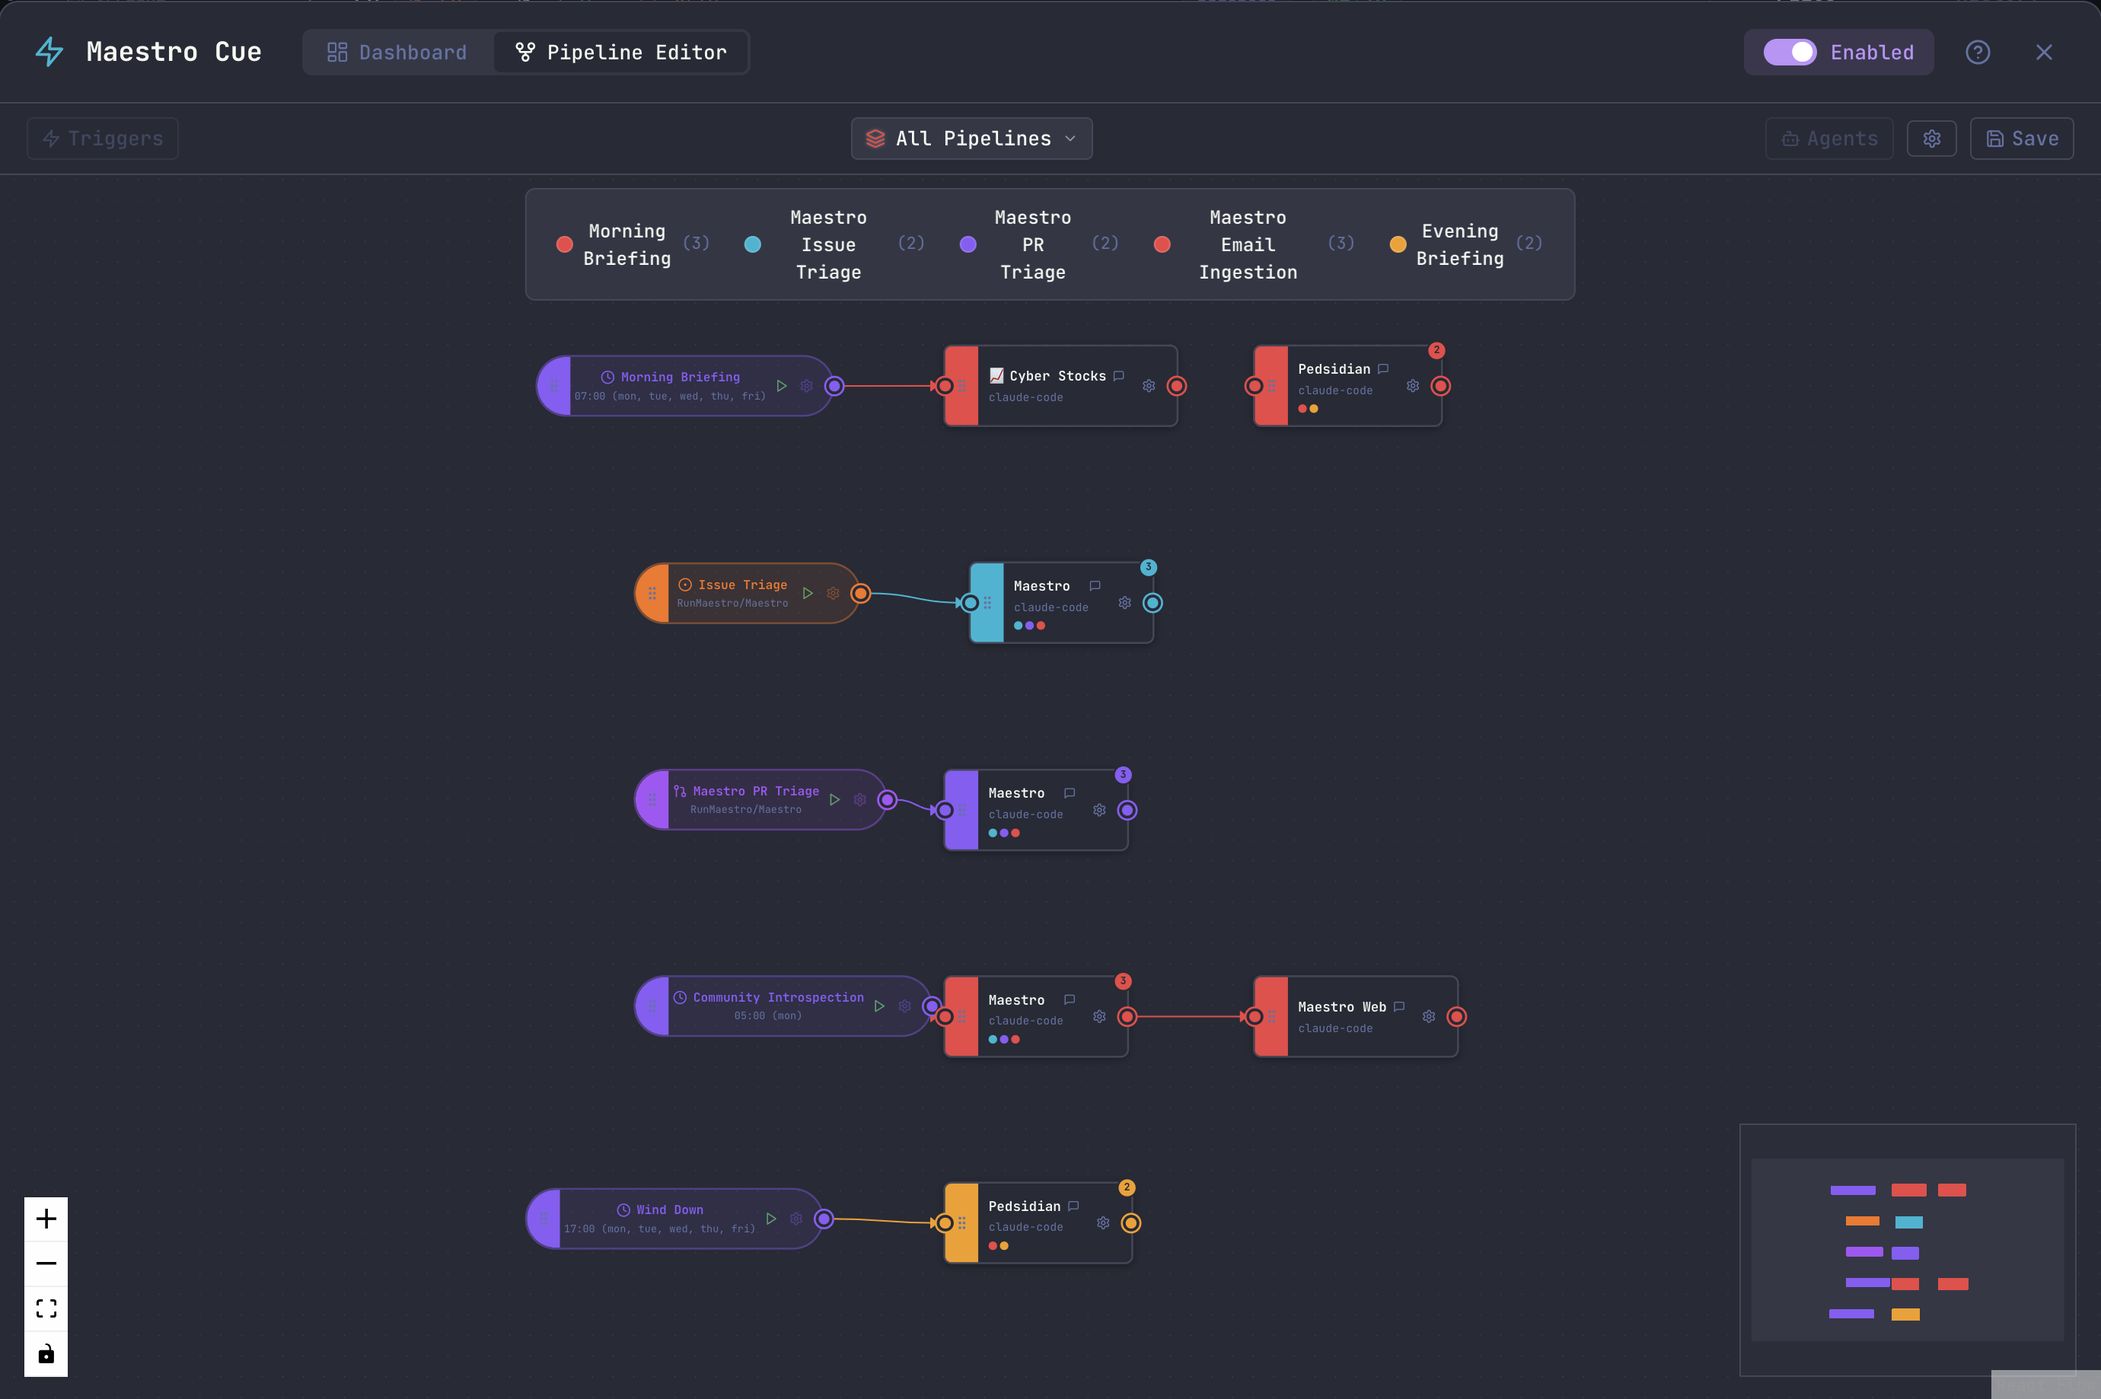
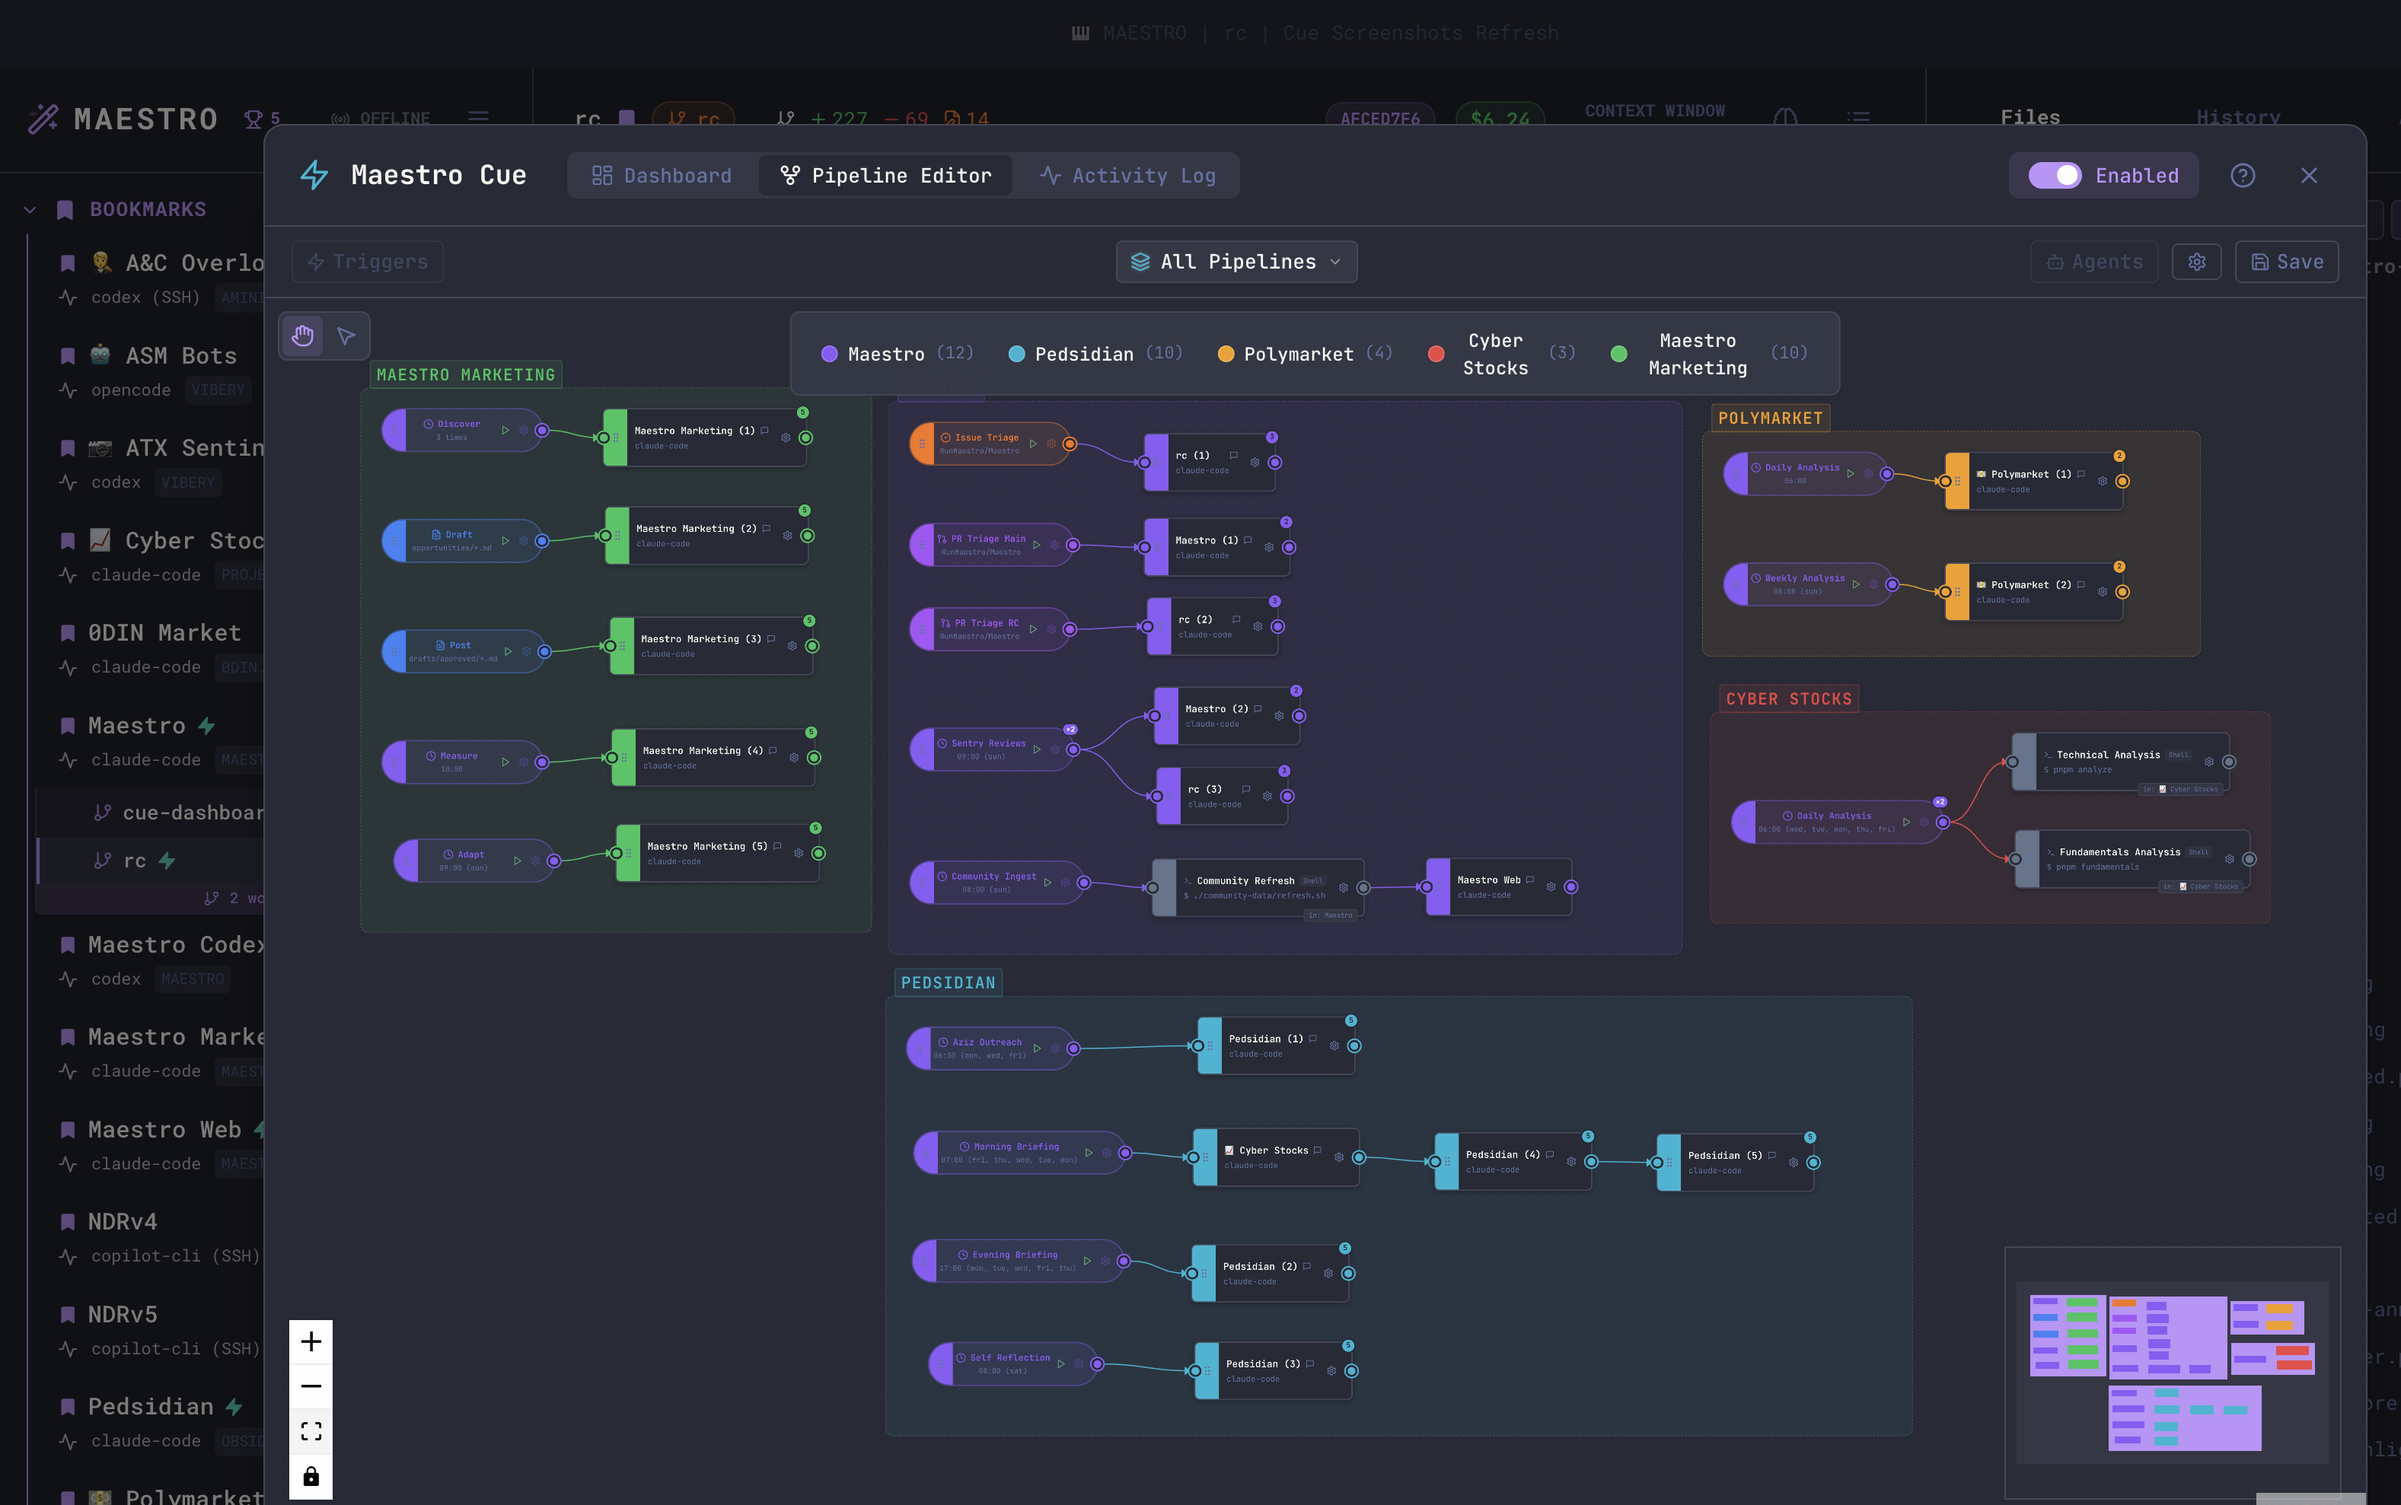
docs(cue): refresh Maestro Cue screenshots and restructure modal sections
Replace the four legacy modal screenshots with fresh full-viewport captures
that match the current three-tab layout, and add four new shots for surfaces
that previously had no visual: the expanded Activity Log entry, the YAML
editor's AI Assist panel, the in-app Help guide, and a dedicated
all-pipelines view distinct from the drilled-in detail.

The accompanying restructure in maestro-cue.md promotes Dashboard, Pipeline
Editor, Activity Log, YAML Editor, and Help to top-level H2 sections — the
prior nesting under "The Cue Modal" pre-dated Activity Log being its own
tab and described "two tabs" instead of three.

diff --git a/docs/maestro-cue.md b/docs/maestro-cue.md
@@ -48,7 +48,7 @@ That's it. Whenever a `.ts` file in `src/` changes, Cue sends that prompt to the
 
 ## The Cue Modal
 
-Open the Cue dashboard to monitor and manage all automation activity.
+Open the Cue modal to monitor and manage all automation activity.
 
 **Keyboard shortcut:**
 
@@ -59,13 +59,13 @@ Open the Cue dashboard to monitor and manage all automation activity.
 
 - Press `Cmd+K` / `Ctrl+K` and search for "Maestro Cue"
 
-The modal has two tabs: **Dashboard** and **Pipeline Editor**. An **Enabled** toggle in the header lets you start and stop the engine globally.
+The modal has three tabs — **Dashboard**, **Pipeline Editor**, and **Activity Log** — plus a **Help** button and an **Enabled** master toggle in the header that starts and stops the engine globally.
 
-### Sessions Table
+## Dashboard
 
-The Dashboard tab shows all agents with Cue configurations:
+The Dashboard tab summarizes engine state at the top (Pipelines, Total Executions, Active Runs, Agents) and lists every agent that has a Cue configuration:
 
-![Cue Sessions](./screenshots/cue-sessions.png)
+![Cue Dashboard](./screenshots/cue-dashboard.png)
 
 | Column             | Description                                                  |
 | ------------------ | ------------------------------------------------------------ |
@@ -79,44 +79,15 @@ The Dashboard tab shows all agents with Cue configurations:
 
 Each row has three action buttons:
 
-- **Run Now** — Manually trigger a subscription on demand
-- **Edit YAML** — Open the inline YAML editor for that agent
-- **View in Pipeline** — Jump to the Pipeline Editor filtered to that agent
+- **Run Now** — Manually trigger a subscription on demand, bypassing its normal event conditions. Useful for testing new subscriptions or re-running a failed automation without waiting for the next event.
+- **Edit YAML** — Open the inline YAML editor for that agent.
+- **View in Pipeline** — Jump to the Pipeline Editor filtered to that agent.
 
-### Run Now
-
-Each subscription row in the Sessions Table has a **Run Now** button that manually triggers it, bypassing its normal event conditions. This is useful for testing new subscriptions or re-running a failed automation without waiting for the next event.
-
-### Activity Log
-
-A chronological record of completed and failed runs. Click any entry to expand full details including the event payload, run ID, and exit code.
-
-![Cue Activity Log](./screenshots/cue-activity-log.png)
-
-Each entry shows:
-
-- Subscription name and trigger type (e.g. `[github.pull_request]`)
-- Status (completed, failed, timeout, stopped)
-- Duration
-- Timestamp
-
-Expand an entry to see the full event data — for GitHub triggers this includes the PR/issue number, title, author, URL, and body.
-
-### YAML Editor
-
-Click **Edit YAML** on any session row to open the inline editor. The left side offers **pattern templates** (Startup, Heartbeat, Scheduled, Reactive, Sequential Chain, PR Review, Issue Triage, Task Queue, and more) — click one to insert a pre-configured subscription block. An **AI Assist** panel lets you describe what you want in plain English and have the agent edit the config for you.
-
-![Cue YAML Editor](./screenshots/cue-yaml-editor.png)
-
-The right side shows your YAML with real-time validation — a green **Valid YAML** indicator appears at the bottom when the config parses correctly. Click **Save** to write the file; the engine hot-reloads automatically.
-
-### Help
-
-Built-in reference guide accessible from the modal header. Covers configuration syntax, event types, and template variables.
+Below the sessions table, the **Active Runs** section lists subscriptions that are currently executing, with a **Stop** button for each.
 
 ## Pipeline Editor
 
-The **Pipeline Editor** tab visualizes your Cue subscriptions as a node graph — triggers on the left, agents on the right, with edges showing how events flow through your automation.
+The Pipeline Editor tab visualizes your Cue subscriptions as a node graph — triggers on the left, agents on the right, with edges showing how events flow through your automation.
 
 ![All Pipelines](./screenshots/cue-pipelines.png)
 
@@ -126,13 +97,52 @@ A pipeline can contain **multiple trigger lines** — for example, a daily scan 
 
 ### Inspecting a Pipeline
 
-Click any pipeline name in the top bar or select a node to drill into a single pipeline. Side drawers open for **Triggers** (left) and **Agents** (right), showing full configuration details. Selecting an agent node reveals its prompt text inline.
+Pick a pipeline from the **All Pipelines** dropdown in the top bar, or click any node, to drill into a single pipeline. The **Triggers** drawer (left) and **Agents** drawer (right) toggle from the toolbar and show full configuration details. Selecting a node reveals its details inline at the bottom — including the prompt text for an agent node.
 
 ![Pipeline Detail](./screenshots/cue-pipeline.png)
 
-The Triggers drawer lists all event types with their configurations (filter patterns, poll intervals, etc.). The Agents drawer shows all available agents with status indicators, and clicking one displays the prompt that will be sent when the trigger fires.
+The Triggers drawer lists all event types with their configurations (filter patterns, poll intervals, etc.). The Agents drawer shows all available agents grouped by project with status indicators.
 
-Use the **Switch to Agent** link at the bottom to jump directly to that agent's workspace.
+Use the **Switch to Agent** link to jump directly to that agent's workspace.
+
+## Activity Log
+
+The Activity Log tab is a chronological record of every completed, failed, timed-out, or stopped run. The header offers a search box and an **Expand all / Collapse all** toggle.
+
+![Cue Activity Log](./screenshots/cue-activity-log.png)
+
+Each entry shows:
+
+- Timestamp (just the time for today's runs, full date for older)
+- Pipeline color dot and subscription name
+- Trigger type (e.g. `(file.changed)`, `(github.pull_request)`)
+- Status (completed in N seconds, failed, timeout, stopped) with a duration
+
+Click any row — or use **Expand all** — to reveal the full event data: payload fields, run ID, exit code, and any captured stdout/stderr. The search box matches against subscription name, pipeline, file paths, PR titles, and the body of run output.
+
+![Activity Log Detail](./screenshots/cue-activity-log-detail.png)
+
+For `file.changed` events the payload includes the path, filename, directory, extension, and change type. For GitHub triggers it includes the PR/issue number, title, author, URL, and body.
+
+## YAML Editor
+
+Click **Edit YAML** on any Dashboard row to open the inline editor. The left column offers **pattern templates** (Startup, Heartbeat, Scheduled, Reactive, Sequential Chain, PR Review, Issue Triage, Task Queue, and more) — click one to insert a pre-configured subscription block. An **AI Assist** panel below lets you describe what you want in plain English and have the agent edit the config for you.
+
+![Cue YAML Editor](./screenshots/cue-yaml-editor.png)
+
+The right side shows your YAML with real-time validation — a green **Valid YAML** indicator appears at the bottom when the config parses correctly. Click **Save** to write the file; the engine hot-reloads automatically.
+
+### AI Assist
+
+Type a plain-English description of the subscription you want to add or change, and the agent edits the YAML for you. Useful for quickly scaffolding a new trigger without remembering field names.
+
+![AI Assist](./screenshots/cue-yaml-editor-ai.png)
+
+## Help
+
+The header **?** button opens a built-in quick-reference guide covering Cue's purpose, getting started, the full event type list, template variables, and advanced patterns. Use it as an in-app cheat sheet; for the full schema and examples, see [Configuration Reference](./maestro-cue-configuration), [Event Types](./maestro-cue-events), and [Advanced Patterns](./maestro-cue-advanced).
+
+![Cue Help](./screenshots/cue-help.png)
 
 ## Configuration File
 
